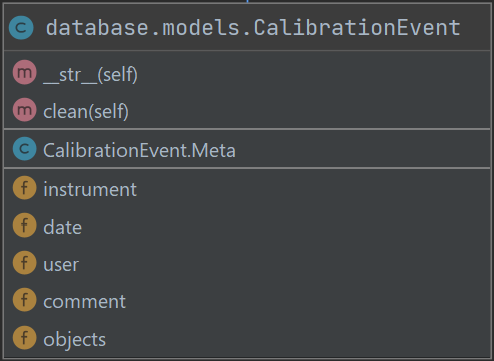
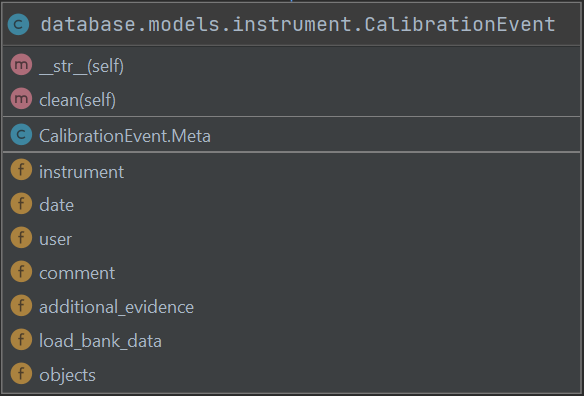
Updated Developer Guide

Changed region(s): [[0.0, 0.0, 1.0, 1.0]]

diff --git a/DeveloperGuide.md b/DeveloperGuide.md
@@ -2,7 +2,11 @@
 
 ## Overview
 
-This entire project is written using the Django framework. A back end enveloped in the Django REST Framework processes requests made 
+This project employs a thick, client-side React front end on top of a remote Django REST Framework backend. The front end and backend are both managed by different GitHub repositories, which autodeploy on push to two different VM test servers, each of which can then be pushed to two different production servers.
+
+The React front end contains the logic for structuring the layout and flow of visual components, handling their internal functions and interactions, and defining the user experience. It also creates remote requests to the back end, processing responses in ways they can be combined with others and presented.
+
+The Django REST Framework processes front end requests made 
 to access the inventory, handling validation, sorting, and other business logic. The front end is constructed using HTML templates, which 
 behave as a structural skeleton that frames logic-handling views. 
 
@@ -10,51 +14,250 @@ The database app contains all the inventory-related models and the REST API. The
 front_lp handles various functions like logging in and creating models, detail_views handles pages for individual models and instruments, 
 and page_views handle the table views of models and instruments, along with the bulk or the functional dashboards.
 
-## Technologies
+# Front End (React)
 
-### SQLITE
+## Frontend Technologies
 
-We use SQLITE as our database. It is the default database for Django and is stored on the same server as the project.
+### React
+
+The front end is built using React.js, a modern Javascript/HTML hybrid framework. React applies object oriented methodologies to web design, allowing you to treat individual components on a screen as instances of stateful classes, which can be recycled and extended with ease. This strays from traditional HTML design, where granularity lies mostly at the page level.
+
+React uses the markup layout logic of HTML, adding its own custom elements and allowing you to create your own. Components use JavaScript to describe internal logic and behavior, and can access external JavaScript utilities and fetches.
+
+### MDBootstrap/Boostrap
+
+Because of the highly recyclable, customizable nature of React, many libraries exist which contain advanced, prestyled components and css classes. One of these libraries is MDBootstrap. 
+
+#### We used MDBoostrap for the following components:
+
+* DataTables
+    * These DataTables, while powerful, are often very limited in extensibility after a certain point. For instance, they contain no support for backend pagination, so for tables accessing large databases, the table functions all needed to be reproduced and overrided 
+    * These customizations can be found the shared library under Common
+- Inputs
+- Buttons
+- Headers 
+
+Scattered, far less organized libraries than MDBootstrap exist across the internet for various separate functions, all following the Bootsrap design framework.
+
+#### We found and used Bootstrap implementations for:
+
+- Day Pickers
+- Typeaheads (for autocomplete)
+- Multiple Typaheads (for categories)
+- Stepper (for the load bank wizard)
+
+### JavaScript Fetch API
+
+Requests to the backend were made using the JavaScript Fetch API. The Fetch API takes in the url, headers, body, and other settings, then performs inputted actions on the responses based on successes or failures. 
+
+### Node.js/Npm
+
+The project runs using Node.js, and project dependencies are managed by npm, which is installed with Node.js. 
+
+If you want to add a library to the project, you just run 
+
+    npm install <library>
+
+When you pull from the repository, just run npm install, and everything in your package.json will be installed into a working set of dependencies called node_modules.
+
+## <a name="Front"></a> Frontend Workspace
+
+The frontend is designed to maximize recyclability and modularity, and so contains multiple subdirectories divided extensively into subdirectories, with a directory 
+for shared elements.
+
+To set up your workspace:
+
+1) Fork the repo at https://github.com/ECE458FiveGuys/FiveGuysFront
+2) Install the most recents stable version of Node.js (14.16.0)
+3) Run npm-install to install all the dependencies from the package.json
+4) Run npm-start to run an instance of the server, allowing you to update in real time
+
+Now, to the specifics of the project.
+
+The main project modules are: 
+
+
+#### App.js:
+
+App.js is not a directory, but a file at the root of the project containing the layout of all routes, as well as the logic mapping initial properties to each top level page component. It also carries logic determining which routes are authorized and not authorized.
+
+When you make a page, add your route here and give it the properties it needs to start out.
+
+Below, you can see the home "/" route being tied to a page, giving it some base properties.
+
+                  <Route exact path="/"
+                    render={(props) => <MainView history={props.history}
+                                                 location={props.location}
+                                                 token={this.state.token}
+                                                 user={this.state.user}/>}>
+There are 2 routes.
+
+* One handles authorization (logging in) and maps to the "auth" folder                                                 
+* The other contains the actual application, mapping to the other modules
+
+This line determines what route you're on:
+
+    if (!this.state.token || !this.state.user)
+
+
+### Auth:
+
+The auth directory contains everything on the auth route:
+
+* Login screen, with token access logic
+* Oauth screen, which handles Oauth acccess, redirect, and token retrieval
+
+### App:
+
+"App" is the second route, containing all the following main submodules.
+
+## Pages:
+
+When someone makes a page, they add the directory containing everything for that page as a subdirectory in this module. Pages should contain a main Component which the router links to, containing mostly just overall layout logic. Subcomponents will populate the subdirectories in each page module.
+
+#### The pages in the project are:
+
+MainPage: 
+* Contains a tabbable table of instruments and models, with the ability to search, export, or create entries. 
+* Each row in the table is selectable and links to a detail view corresponding to that instrument/model
+
+DetailPages:
+* Contains the logic for the detail pages for instruments and models, including calibration recording for instruments
+
+CategoryPage:
+* A page with an tabbable, editable table of model and instrument categories
+
+UsersPage:
+* A page with an actionable table of users, allowing you to deactivate, create, and change permissions
+
+UserSettings:
+* A page allowing you to customize your settings
+* Now, just supports password change
+
+LoadBank:
+* A module for all the logic for the load bank wizzard
+
+ImportPage:
+* A module for a page walking users through the instrument/model import process
+
+## Controller
+
+The controller contains a library of Fetch API based methods for handling requests to the backend. 
+
+The shared libraries are: 
+
+* ModelRequests
+* InstrumentRequests
+* UserRequests
+* CategoryRequests
+* ImportExportRequests
+
+There is also a RequestUtils folder which is used by all the Request modules; namely all request functions use the same universal fetch method.
+
+Thiere is also a URLs file, containing hostnames and all the backend URLS. Reference this when making an addition to the Request library.
+
+To talk to the database, you just have to do:
+
+    FooRequests.Foo(token, callBack, errorCallBack, fooParam1, fooParam2...)
+    
+These methods are designed to be backend-blind, so the user never has to think about urls.
+
+## Utils
+
+A folder of shared, functional tools and enums. 
+
+Enums:
+* The enums file is one of the most essential elements here, containing constant references to JSON keys used for fields from backend requests. This allows people to all maintain the same references, smoothing bugs with mistyping and allowing for IDE autocomplete.
+
+
+## Common
+
+Perhaps the most useful module for a new developer in the system, Common contains abstracted building blocks, which can be used to create new pages and maintain consistent thematics and style. 
+
+The most useful of these are:
+
+* DataTable
+    * Sortable, navigable client-side table
+* BackendPaginatedDataTable
+    * Instance of DataTable with sorting and navigation overwritten to call backend functions
+* EditableTable
+    * A table in which entries can be selected and modified
+* NavBar
+    * The main header at the top of the page
+* HTPStepper
+    * A stylized, highly customizable stepper with advanced options. Can be used within other steppers 
+* FormEntry
+    * For processing forms
+* FormModal
+    * For forms mounted on a popup
+* HTPPopup
+    * For error handling
+* HTPInput
+* HTPButton
+
+When you complete a page or component, see what you can abstract out and place in this folder so others can use.
+
+# Back End (RESTful Django)
+
+## Backend Technologies
+
+### SQLite
+
+We use SQLite as our database. It is the default database for Django and is stored on the same server as the backend.
 
 ### Django
 
-We use Django for both the frontend and backend. 
+Django is our backend framework. Here, we define all of the interactions with the database.
 
 ### Django REST framework
 
-We use the Django REST framework to communicate between the frontend and backend. We made a conscious, if not regrettable, decision to completely separate the frontend and backend and have them communicate using REST API calls. The one good thing about this decision is that it allows us to change our frontend without any changes to the backend if we wish.
+We use the Django REST framework (DRF) to build the backend interface.
 
 ### Djoser
 
-Djoser is used to deal with user authorization. Since we are using Django frontend and backend, we could have used Django sessions, but Djoser allows for the frontend to be changed without any modifications to backend.
+Djoser is used to deal with user authorization. We use token-based authentication.
 
-### Gunicorn
+## How Technologies Interact
 
-Gunicorn is a Python WSGI HTTP Server for UNIX. Moderately popular. Used on dev and prod servers.
+Django is used to make the models and provide a high-level interface to the SQLite database. Most field-level validation is done at the model level. Then, DRF is used to create the endpoints as well as serialize and de-serialize the data. The frontend interacts with endpoints generated by the DRF and the DRF in turn communicates with Django. Finally, Djoser acts as a Django/DRF hybrid in the sense that it used for the user model as well as user endpoints.
 
-### nginx
+## How Backend is Constructed
 
-nginx is a webserver. Easier to configure than apache in the humble opinion of the dev ops guy.
+At a high level, the backend is made up of three main parts: models, serializers, and views.
+
+### Models
+The models describe the database schema. A large amount of the validation is done in the models. An important part of the models are Manager classes, which are used to add table-level functionality to models. 
+
+### Serializers
+Serializers take deserialize JSON data from the views into model objects, handing it off for the model layer to interact with the database. They also take models from model layer and serialize them into JSON data for the views to hand back to the client.
+
+### Views
+Views determine the ways in which a client may interact with the backend. The word "view" is a bit of a misnomer, as there isn't much to see, it's merely an endpoint that accepts certain actions and data and hands back data in a specified format. Interacts with the client and with the serializers.
+
+### Extra
+Lastly, there are a few extra components to tie everything up. We have a urls file that provides information about how endpoints are routed to certain views and there is a settings file to specify server-wide conditions.
 
 ## Configuration
 
-### Development Environment
+### Backend Workspace
+
+The project is stored in two repositories, one for frontend and one for backend. The frontend repo is [FiveGuysFront](https://github.com/ECE458FiveGuys/FiveGuysFront) while the backend repo is [FiveGuysPowerTesting](https://github.com/ECE458FiveGuys/FiveGuysPowerTesting). The frontend repo is configured to talk to the development backend server located at <https://group-six-react.colab.duke.edu/>. Thus, to get started on working with the frontend, all one has to do is clone the frontend repo, run a few commands to build the project, and you should already have a backend up and running to interact with. The instructions for this can be found in the [Frontend Workspace section](#Front). As for the backend, to get started one would clone the repo, install requirements, create the database, and then run a local server. Below are the instructions for doing so.
 
 ```shell
-git clone git@github.com:ECE458FiveGuys/FiveGuysPowerTesting.git
-cd FiveGuysPowerTesting
-python3 -m venv env
-source env/bin/activate # may differ based on OS: Windows uses env/Scripts
-pip install -r requirements.txt
-python manage.py makemigrations database
-python manage.py makemigrations user_portal
-python manage.py migrate
-python manage.py createsuperuser
-python manage.py collectstatic
-python manage.py runserver
+$ git clone git@github.com:ECE458FiveGuys/FiveGuysPowerTesting.git
+$ cd FiveGuysPowerTesting
+$ python3 -m venv env
+$ source env/bin/activate           # may differ based on OS
+$ pip install -r requirements.txt
+$ python manage.py makemigrations database
+$ python manage.py makemigrations user_portal
+$ python manage.py migrate
+$ python manage.py createsuperuser  # create your first user
+$ python manage.py collectstatic    # for DRF web interface
+$ python manage.py runserver
 ```
 
-Running all of the above commands, in order, one-by-one, will result in a functioning dev environment. Using your favorite browser, you should be able to navigate to <http://127.0.0.1:8000/login> and login using the superuser that you created. 
+Running all of the above commands, in order, one-by-one, will result in a functioning dev environment. The easiest way to interact with the API would be to either use the command line or [Postman](https://www.postman.com/).
 
 ### Production Environment
 
@@ -64,22 +267,35 @@ See the Deployment Guide.
 
 ### Users
 
-User authorization is done using the Djoser library. The code can be found in `user_portal`. Here, we have the model `PowerUser` that inherits from `Abstract User`. It has a manager `PowerUserManager` that defines the `PowerUser.objects.create()` function. When creating a superuser, the fields `is_staff` and `is_superuser` are both set `True`. Otherwise, they are `False`. When creating a standard user, the only fields that are required are `username`, `name`, `email`, and `password`. The field `is_active` is not required but is set to `True` if no value is given. 
+User authorization is done using the Djoser library. The code can be found in the `user_portal` directory. Here, we have the model `PowerUser` that inherits from `Abstract User`. It has a manager `PowerUserManager` that defines the several functions, the most important of shich is `PowerUser.objects.create()`. When creating a superuser, the fields `is_staff` and `is_superuser` are both set `True`. When creating a normal administrator, the field `is_staff` is set to `True`. Otherwise, they are `False`. When creating a standard user, the only fields that are required are `username`, `name`, `email`, and `password`. The field `is_active` is not required but is set to `True` if no value is given. 
 
 ![user](images/PowerUser.png)
 
 ### Models
 
-Models are handled by the `EquipmentModel` class. Originally named `Model`, we changed it because Django has a lot of references to another Model class. In the database, each `EquipmentModel` object has 4 fields: `vendor, model_number, description, comment, instruments`. The model has a uniqueness constraint where `vendor` and `model_number` must form a unique pair. The `instruments` field is a `ForeignKey` in the `Instrument` Model and holds a list of all instruments of that model. Note that one cannot delete a model that has any instruments linked to it.
+Models are handled by the `Model` class. In the database, each `Model` object has several fields: `vendor, model_number, description, comment, instruments, calibration_frequency, calibration_mode, and model_categories`. The model has a uniqueness constraint where `vendor` and `model_number` must form a unique pair. The `instruments` field is a `ForeignKey` in the `Instrument` Model and holds a list of all instruments of that model. Note that one cannot delete a model that has any instruments linked to it. The `model_categories` field is a `ManyToManyField` field. Deleting a model will not delete its categories or vice versa.
 
-![model](images/EquipmentModel.png)
+![model](images/Model.png)
 ### Instruments
 
-Instruments are handled by the `Instrument` class. In the database, each `Instrument` object has 4 fields: `model, serial_number, comment, calibration_history`. The model has a uniqueness constraint where `model` and `serial_number` must form a unique pair. The `instruments` field is a `ForeignKey` in the `CalibrationEvent` Model and holds a list of all calibration events of that instrument. It should be noted that depending on the query, you might either get a list of the calibration events or a single field `most_recent_calibration_date` indicating the date of the most recent `CalibrationEvent` object associated with that instrument. Also of note, there is another annotation (not stored in the database) called `calibration_expiration_date` that is calculated as `model__calibration_date` + `most_recent_calibration_date`. 
+Instruments are handled by the `Instrument` class. In the database, each `Instrument` object has several fields: `model, serial_number, asset_tag_number, comment, calibration_history, and instrument_categories`. The model has a uniqueness constraint where `model` and `serial_number` must form a unique pair. Note that `serial_number` may be null. The `calibration_history` field is a `ForeignKey` in the `CalibrationEvent` Model and holds a list of all calibration events of that instrument. It should be noted that depending on the query, you might either get a list of the calibration events or a single field `most_recent_calibration_date` indicating the date of the most recent `CalibrationEvent` object associated with that instrument. Also of note, there is another annotation (not stored in the database) called `calibration_expiration_date` that is calculated as `model__calibration_date` + `most_recent_calibration_date`. Lastly, the`instrument_categories` field is a `ManyToManyField` field. Deleting an instrument will not delete its categories or vice versa.
 
 ![instrument](images/Instrument.png)
 ### Calibration Events
 
-Calibration Events are handled by the `CalibrationEvent` class. In the database, each `CalibrationEvent` object has 4 fields: `instrument, date, user, comment`. The model does not have any uniqueness constraint. The `instrument` field and the`user` field are both `ForeignKey` objects. It should be noted that it is not possible to create a calibration event for a model that is not calibratable.
+Calibration Events are handled by the `CalibrationEvent` class. In the database, each `CalibrationEvent` object has several fields: `instrument, date, user, comment, additional_evidence, and load_bank_data`. The model does not have any uniqueness constraint. The `instrument` field and the`user` field are both `ForeignKey` objects. It should be noted that it is not possible to create a calibration event for a model that is not calibratable. Furthermore, there is a restriction that only a model whose `calibration_mode` is `LOAD_BANK` may have any data in the `load_bank_data` field.
 
 ![calibration event](images/CalibrationEvent.png)
+
+### Categories
+Has a name field. Name can be include most characters but may not have whitespace.
+
+# Server Technologies
+
+### Gunicorn
+
+Gunicorn is a Python WSGI HTTP Server for UNIX. Moderately popular. Used for backend.
+
+### nginx
+
+nginx is a webserver. Used for both frontend and backend.
